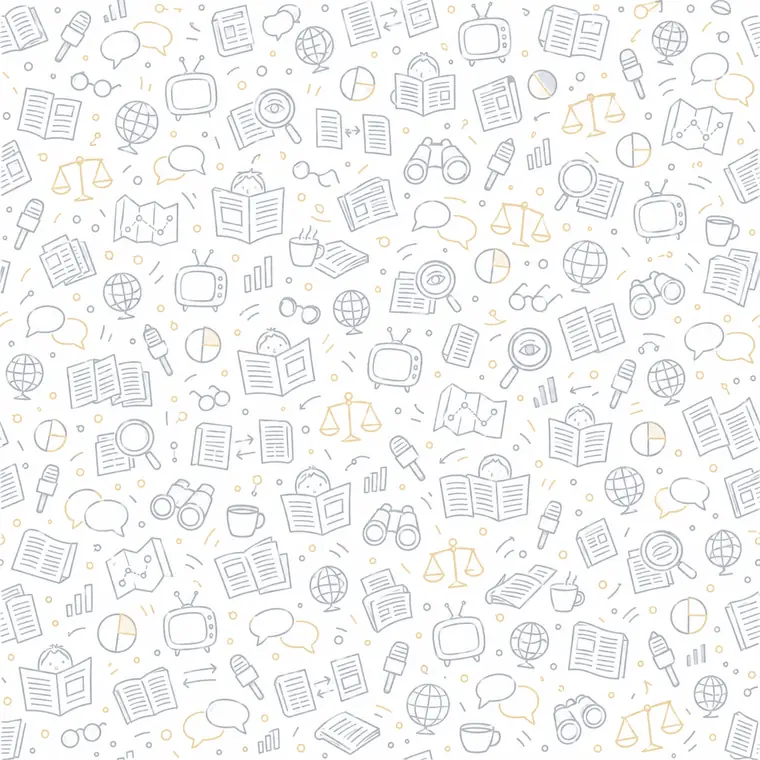
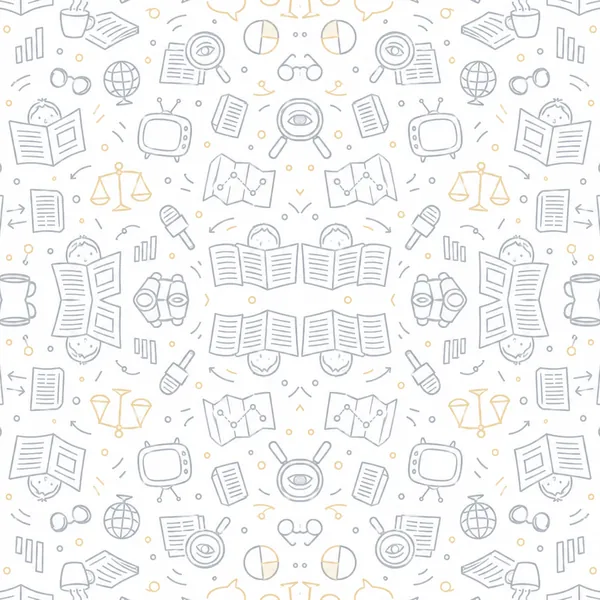
TheMarker through its own front door, and paper under the stories only
Google News turned out to be the wrong door. It has the headlines, but
its links are Google's own and only resolve by running Google's
JavaScript - so every tap would land on an interstitial instead of on
the outlet's article, which is the one promise this app makes to the
outlets it reads. Digging for it found a better one: TheMarker declares
news-sitemap-content.xml in its own robots.txt, 117 items with real
article links and real times. It reads like Haaretz because it is
Haaretz's platform, and it joins its sister paper as the inherited
exception rather than a new one. 46 of its stories are in.

The paper pattern moves to where it was asked for: under the stories
alone, not under the name or the controls, and at 0.12 rather than 0.7.
It is a tile now, mirrored into its four quarters so it repeats without
a seam at any width, and a third of the size it was.

The arrow at the end of a headline asks for its text glyph. Without
U+FE0E the phone draws the emoji, which is a blue tile the size of the
word beside it.

diff --git a/ui/components/newsFeed.tsx b/ui/components/newsFeed.tsx
@@ -29,7 +29,8 @@ const BRAND_INK = "#192F50";
 const BRAND_INK_DARK = "#C7D4E8";
 const MARK_INK = require("../assets/images/mark-ink.png");
 const MARK_LIGHT = require("../assets/images/mark-light.png");
-/** the doodled paper the feed is printed on - light theme only, where it is paper */
+/** the doodled paper the stories are printed on - light theme only, where it is
+ *  paper. The tile is mirrored into its own quarters, so it repeats without a seam. */
 const PAPER = require("../assets/images/paper.webp");
 const MARK_RATIO = 426 / 372;
 /** room under the last story, so the tab bar never sits on a headline */
@@ -428,9 +429,6 @@ export default function NewsFeed() {
 				</View>
 			)}
 			<View style={styles.feedArea}>
-			{t.name === "light" && (
-				<Image source={PAPER} style={styles.paper} resizeMode="cover" />
-			)}
 			<ScrollLock.Provider value={setScrollLocked}>
 			<ScrollView 
 				style={[styles.scrollView, { backgroundColor: t.name === "light" ? "transparent" : t.bg }]}
@@ -485,6 +483,12 @@ export default function NewsFeed() {
 				/>
 				</View>
 
+				<View style={styles.cardsArea}>
+				{/* only under the stories, and only just there: the header and the
+				    controls keep the plain ground they had */}
+				{t.name === "light" && (
+					<Image source={PAPER} style={styles.paper} resizeMode="repeat" />
+				)}
 				<View style={styles.cards}>
 				{sortedArticles.map((cluster, index) => {
 					const key = storyKey(cluster, index);
@@ -503,6 +507,7 @@ export default function NewsFeed() {
 						onToggle={bind.toggle} />
 					);
 				})}
+				</View>
 				</View>
 			</ScrollView>
 			</ScrollLock.Provider>
@@ -610,7 +615,9 @@ const styles = StyleSheet.create({
 		// borderWidth: 2,
 		flex: 1,
 	},
-	// the stories keep the narrow side margin the header does not want
+	// the stories keep the narrow side margin the header does not want; the paper
+	// sits in the box around them, so it runs edge to edge under the list alone
+	cardsArea: { position: "relative" },
 	cards: { paddingHorizontal: 6 },
 	feedArea: { flex: 1, width: "100%" },
 	// it sits still while the feed moves over it, so it reads as the page rather
@@ -619,7 +626,7 @@ const styles = StyleSheet.create({
 	// own 760 square on it inline, which beats anything a stylesheet says
 	paper: {
 		position: "absolute", top: 0, left: 0, width: "100%", height: "100%",
-		opacity: 0.7, pointerEvents: "none",
+		opacity: 0.12, pointerEvents: "none",
 	},
 	tour: { position: "absolute", top: 0, right: 0, bottom: 0, left: 0 },
 });

diff --git a/ui/components/blocView.tsx b/ui/components/blocView.tsx
@@ -99,7 +99,7 @@ const BlocView = ({ data, positions, onOpenArticle }: Props) => {
                                 {open && (
                                     <Text style={styles.headline}>
                                         {item.title}
-                                        <Text style={styles.jump}>{"  \u2196"}</Text>
+                                        <Text style={styles.jump}>{" \u2196\ufe0e"}</Text>
                                     </Text>
                                 )}
                             </TouchableOpacity>
@@ -171,9 +171,11 @@ const styles = StyleSheet.create({
         fontFamily: "Heebo_400Regular", fontSize: 11.5, lineHeight: 16,
         color: "#111827", textAlign: "right", paddingRight: 13,
     },
-    // an arrow out of the page, at the end of the one line in the app that leads
-    // off it: this headline is the outlet's own, and touching it goes and reads it
-    jump: { fontSize: 12.5, color: "#9A9A95" },
+    // An arrow out of the page, at the end of the one line in the app that leads
+    // off it: this headline is the outlet's own, and touching it goes and reads it.
+    // U+FE0E asks for the text glyph - without it the phone draws the emoji, which
+    // is a blue-and-white tile the size of the word beside it.
+    jump: { fontSize: 8.5, color: "#A9A9A4" },
     empty: { fontFamily: "Heebo_400Regular", fontSize: 11, color: "#6B7280", lineHeight: 16 },
 
     unaligned: { backgroundColor: "#F4F4F3", borderRadius: 7, padding: 10, marginTop: 8, gap: 7 },

diff --git a/ui/components/citizenCarousel.tsx b/ui/components/citizenCarousel.tsx
@@ -116,7 +116,9 @@ const CitizenCarousel = ({ data, positions, onOpenArticle }: Props) => {
                                 <>
                                     {!!item.summary && <Text style={styles.summary}>{plain(item.summary)}</Text>}
                                     <TouchableOpacity onPress={() => onOpenArticle(item)}>
-                                        <Text style={styles.go}>{"לכתבה המלאה  \u2196"}</Text>
+                                        <Text style={styles.go}>
+                                            לכתבה המלאה<Text style={styles.jump}>{" \u2196\ufe0e"}</Text>
+                                        </Text>
                                     </TouchableOpacity>
                                 </>
                             )}
@@ -167,6 +169,9 @@ const styles = StyleSheet.create({
     },
     go: {
  fontFamily: "Heebo_800ExtraBold", fontSize: 11.5, fontWeight: "800", color: "#16A34A", textAlign: "right", marginTop: 2 },
+    // the same small mark the bloc view puts at the end of a headline that leads off
+    // the page; U+FE0E keeps it a glyph rather than an emoji tile
+    jump: { fontSize: 8.5, fontFamily: "Heebo_500Medium", fontWeight: "500" },
     note: {
  fontFamily: "Heebo_400Regular", fontSize: 10.5, color: "#9CA3AF", textAlign: "center" },
 });

diff --git a/server/src/worker/scraping.py b/server/src/worker/scraping.py
@@ -182,12 +182,13 @@ def translate_to_hebrew(header: str, subheader: str) -> tuple[str, str] | None:
 # clothes. Saying who we are and how to be told to stop is the honest thing and
 # the effective one.
 UA = "HaEzrachHaKatanBot/1.0 (+https://haezrach-hakatan.web.app; haezrachh@gmail.com)"
-# The one exception, and it is inherited rather than chosen: Haaretz's edge
-# refuses anything it does not recognise, and it is the largest outlet on the
-# left. Worth replacing with a word from them - everything else here is honest.
+# The one exception, inherited rather than chosen: the Haaretz group's edge
+# refuses anything it does not recognise, and between them these two are the
+# largest voice on the left. Both were already being read this way before any of
+# this; worth replacing with a word from them, and everything else here is honest.
 BROWSER_UA = ("Mozilla/5.0 (Macintosh; Intel Mac OS X 10_15_7) AppleWebKit/537.36 "
               "(KHTML, like Gecko) Chrome/120.0.0.0 Safari/537.36")
-AS_BROWSER = {"הארץ"}
+AS_BROWSER = {"הארץ", "דה מרקר"}
 FEED_TIMEOUT = 15
 
 
